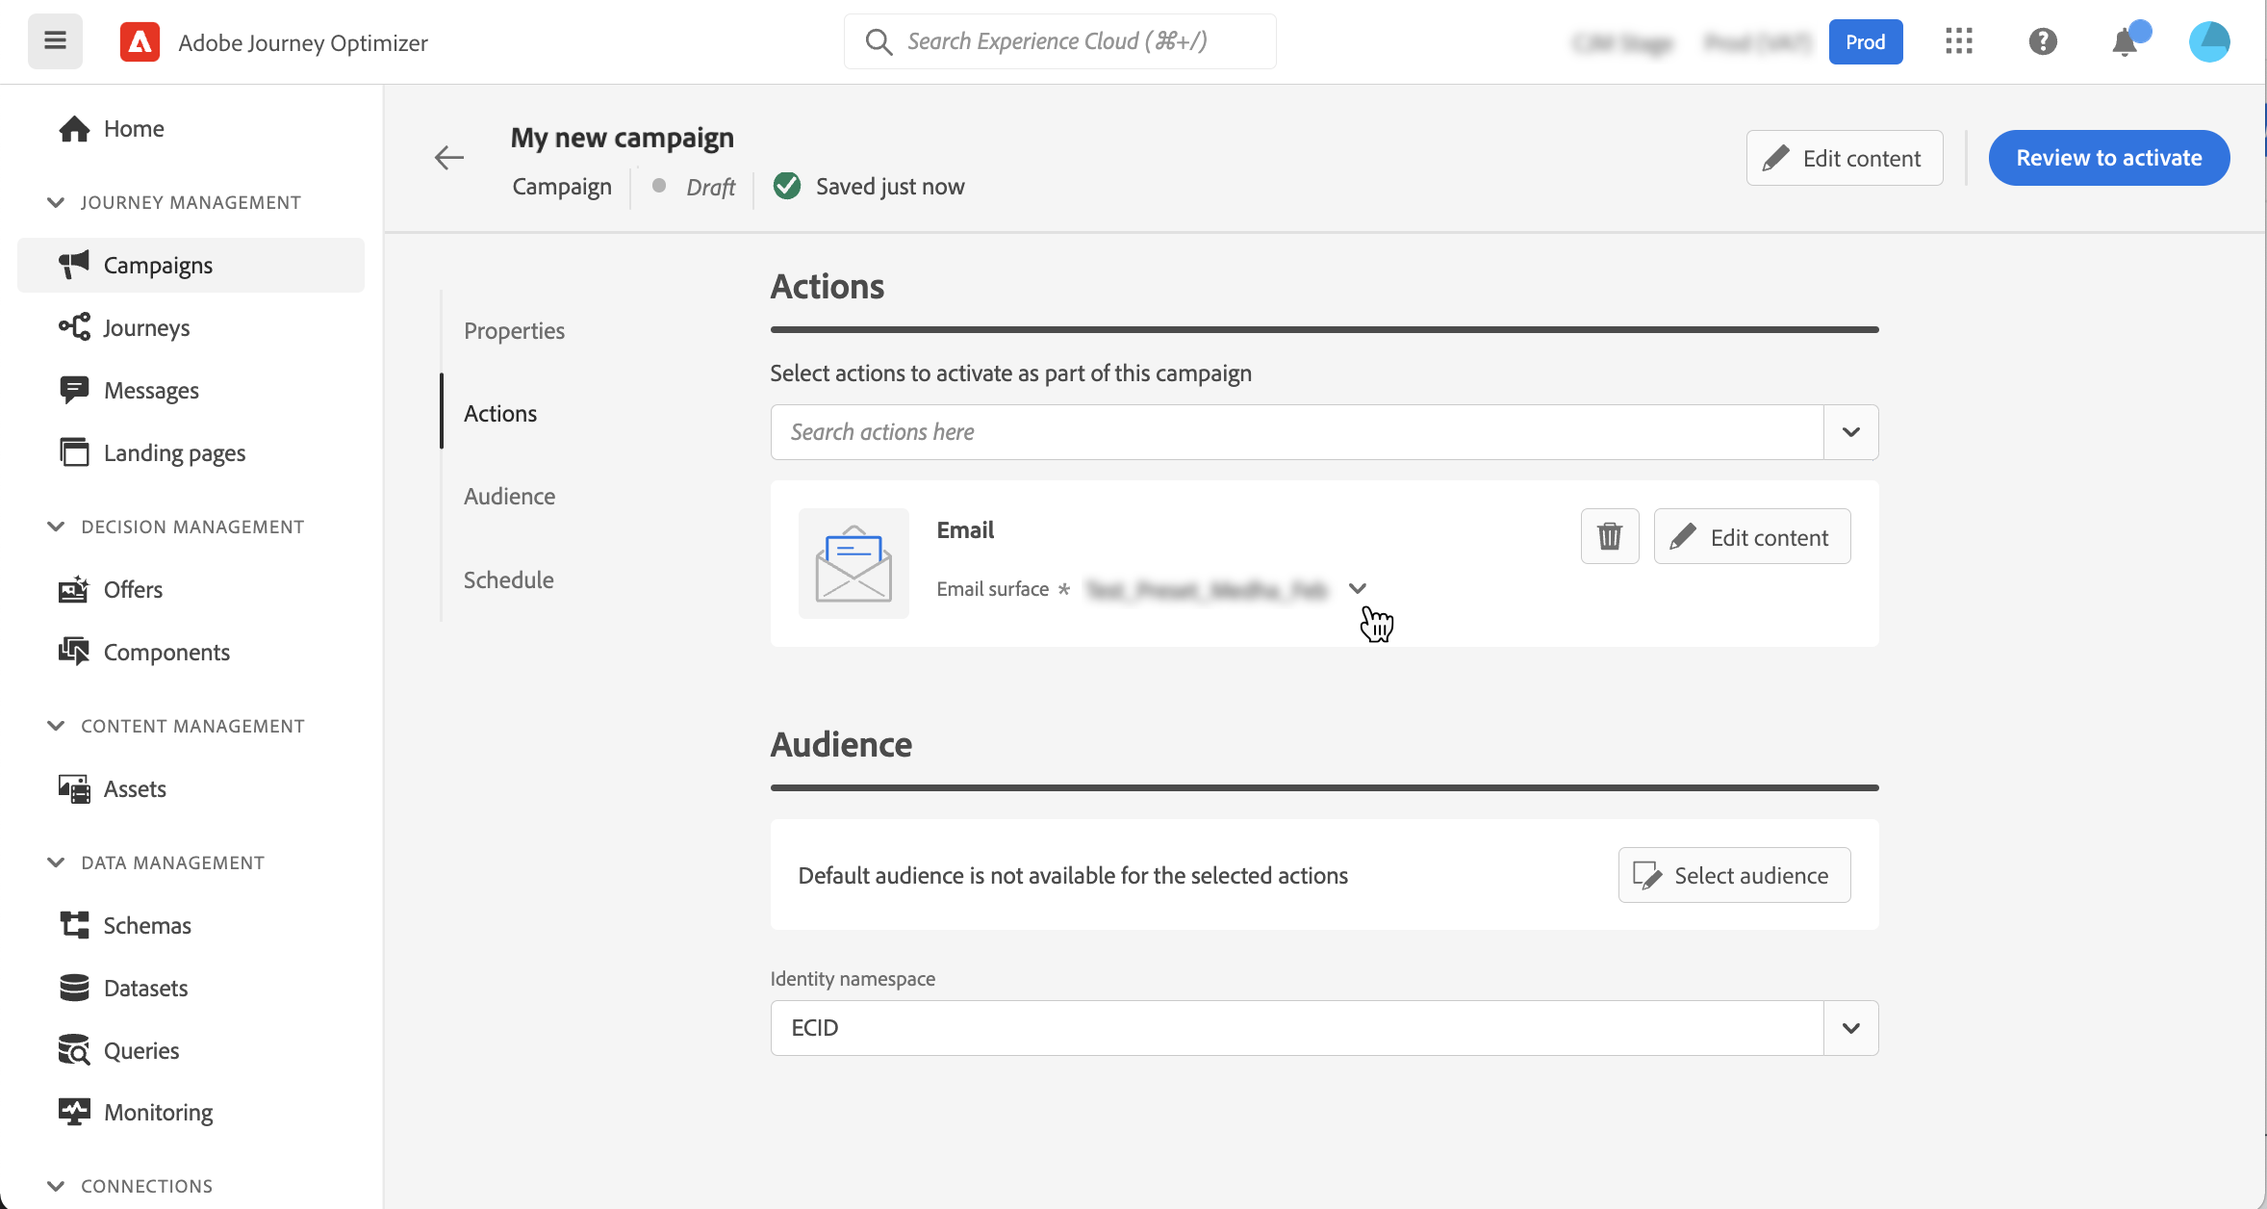
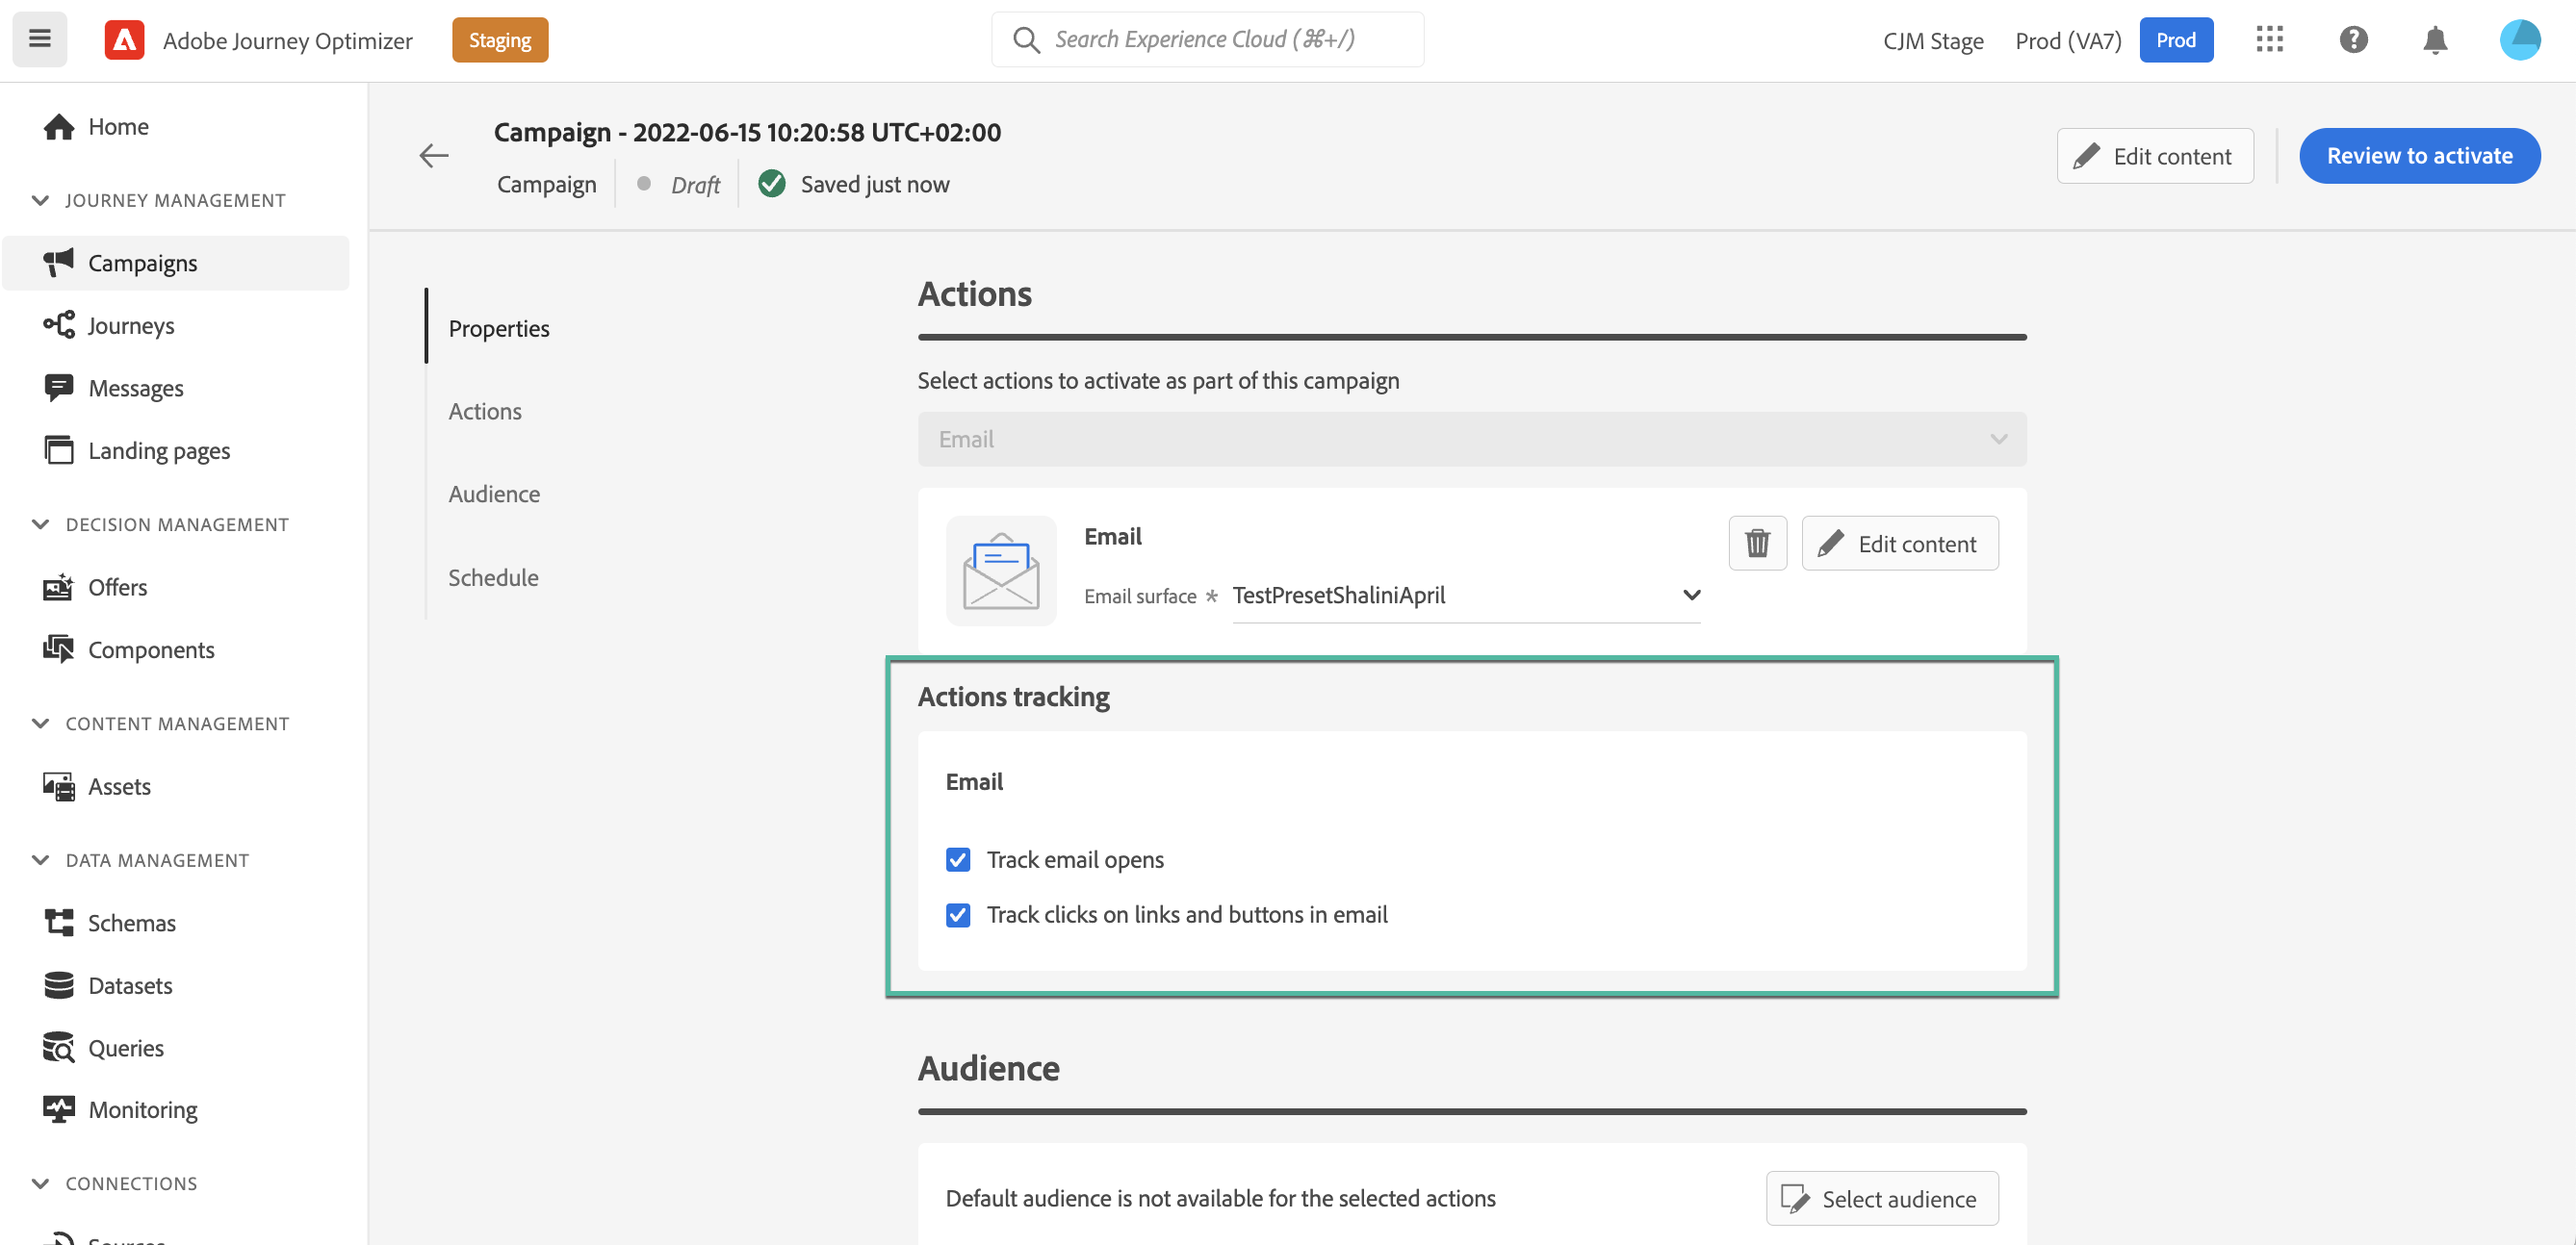
update campaigns

diff --git a/help/using/campaigns/create-campaign.md b/help/using/campaigns/create-campaign.md
@@ -39,20 +39,21 @@ The steps to create a campaign are as follows:
 
 1. Specify a title and a description for the campaign.
 
-    To test the content of your message, toggle the **[!UICONTROL Content experiment]** option on. This allows you to test multiple variables of a delivery on populations samples, in order to define which treatment has the biggest impact on the targeted population.[Learn more about content experiment](../campaigns/content-experiment.md).
+    <!--To test the content of your message, toggle the **[!UICONTROL Content experiment]** option on. This allows you to test multiple variables of a delivery on populations samples, in order to define which treatment has the biggest impact on the targeted population.[Learn more about content experiment](../campaigns/content-experiment.md).-->
 
     ![](assets/create-campaign-properties.png)
 
-1. Configure the message to send with the campaign. To do this, click the **[!UICONTROL Edit content]** button, then configure and design your message. [Learn how to create an email](../messages/create-email.md).
+1. In the **[!UICONTROL Actions]** section, configure the message to send with the campaign:
 
+    1. click the **[!UICONTROL Edit content]** button, then configure and design your message. [Learn how to create an email](../messages/create-email.md).
 
-    Once your content is ready, click the arrow to go back to the campaign creation screen.
+        Once your content is ready, click the arrow to go back to the campaign creation screen.
 
-    ![](assets/create-campaign-design.png)
+        ![](assets/create-campaign-design.png)
 
-    Note that you can change the message surface to use at any time while the campaign is being edited from the drop-down list.
+    1. In the **[!UICONTROL Actions tracking]** section, specify if you want to track how your recipients react to your delivery. Tracking results will be accessible from the campaign report once the campaign has been executed. Learn more
 
-    ![](assets/create-campaign-action-properties.png)
+        ![](assets/create-campaign-action-properties.png)
 
 1. Define the audience to target. To do this, click the **[!UICONTROL Select audience]** button to display the list of available Adobe Experience Platform segments.
 
@@ -73,9 +74,11 @@ The steps to create a campaign are as follows:
 
 1. Configure the campaign's start and end dates.
 
-    By default, Campaigns are configured to start once they are activated, and to end as soons as the message has been sent once. <!--For in-app messages, you need to stop the campaign manually or specify an end date.-->
+    >[!NOTE]
+    >
+    >By default, Campaigns are configured to start once they are activated manually, and to end as soons as the message has been sent once. <!--For in-app messages, you need to stop the campaign manually or specify an end date.-->
 
-    You can configure a frequency at which the action will be performed.
+1. Additionally, you can configure a frequency for the execution of the action configured in the campaign.
 
     ![](assets/create-campaign-schedule.png)
 
@@ -97,7 +100,7 @@ Once your campaign has been configured, you need to review its parameter and con
 
     ![](assets/create-campaign-alerts.png)
 
-    Check that your campaign is correctly configured, then click **[!UICONTROL Activate]**.
+1. Check that your campaign is correctly configured, then click **[!UICONTROL Activate]**.
 
     ![](assets/create-campaign-review.png)
 

diff --git a/help/using/campaigns/get-started-with-campaigns.md b/help/using/campaigns/get-started-with-campaigns.md
@@ -9,6 +9,11 @@ level: Intermediate
 
 # Get started with campaigns {#get-started-campaigns}
 
+>[!CONTEXTUALHELP]
+>id="campaigns_list"
+>title="Campaigns"
+>abstract="With Campaigns, you can deliver one-time content to a specific segment across multiple channels. Before creating a new campaign, make sure you have a message preset and an Adobe Experience Platform segment ready for use."
+
 ## About campaigns {#about}
 
 Campaigns allow you to deliver one-time content to a specific segment using multiple channels.
@@ -17,12 +22,12 @@ Unlike journeys, where actions are designed to be executed in sequence, campaign
 
 You can use them, for example, to deliver promotional offers, engagement campaigns, announcements, legal notices, or policy updates.
 
-Additionally, campaigns' content experiment feature allows you to test multiple variables of a delivery on populations samples, in order to define which treatment has the biggest impact on the targeted population.
+<!--Additionally, campaigns' content experiment feature allows you to test multiple variables of a delivery on populations samples, in order to define which treatment has the biggest impact on the targeted population.-->
 
 Learn how to manage campaigns and content experiments:
 * [Create a campaign](create-campaign.md)
 * [Modify or stop a campaign](modify-stop-campaign.md)
-* [Create a content experiment](content-experiment.md)
+<!--* [Create a content experiment](content-experiment.md)-->
 
 ## Access campaigns {#access}
 
